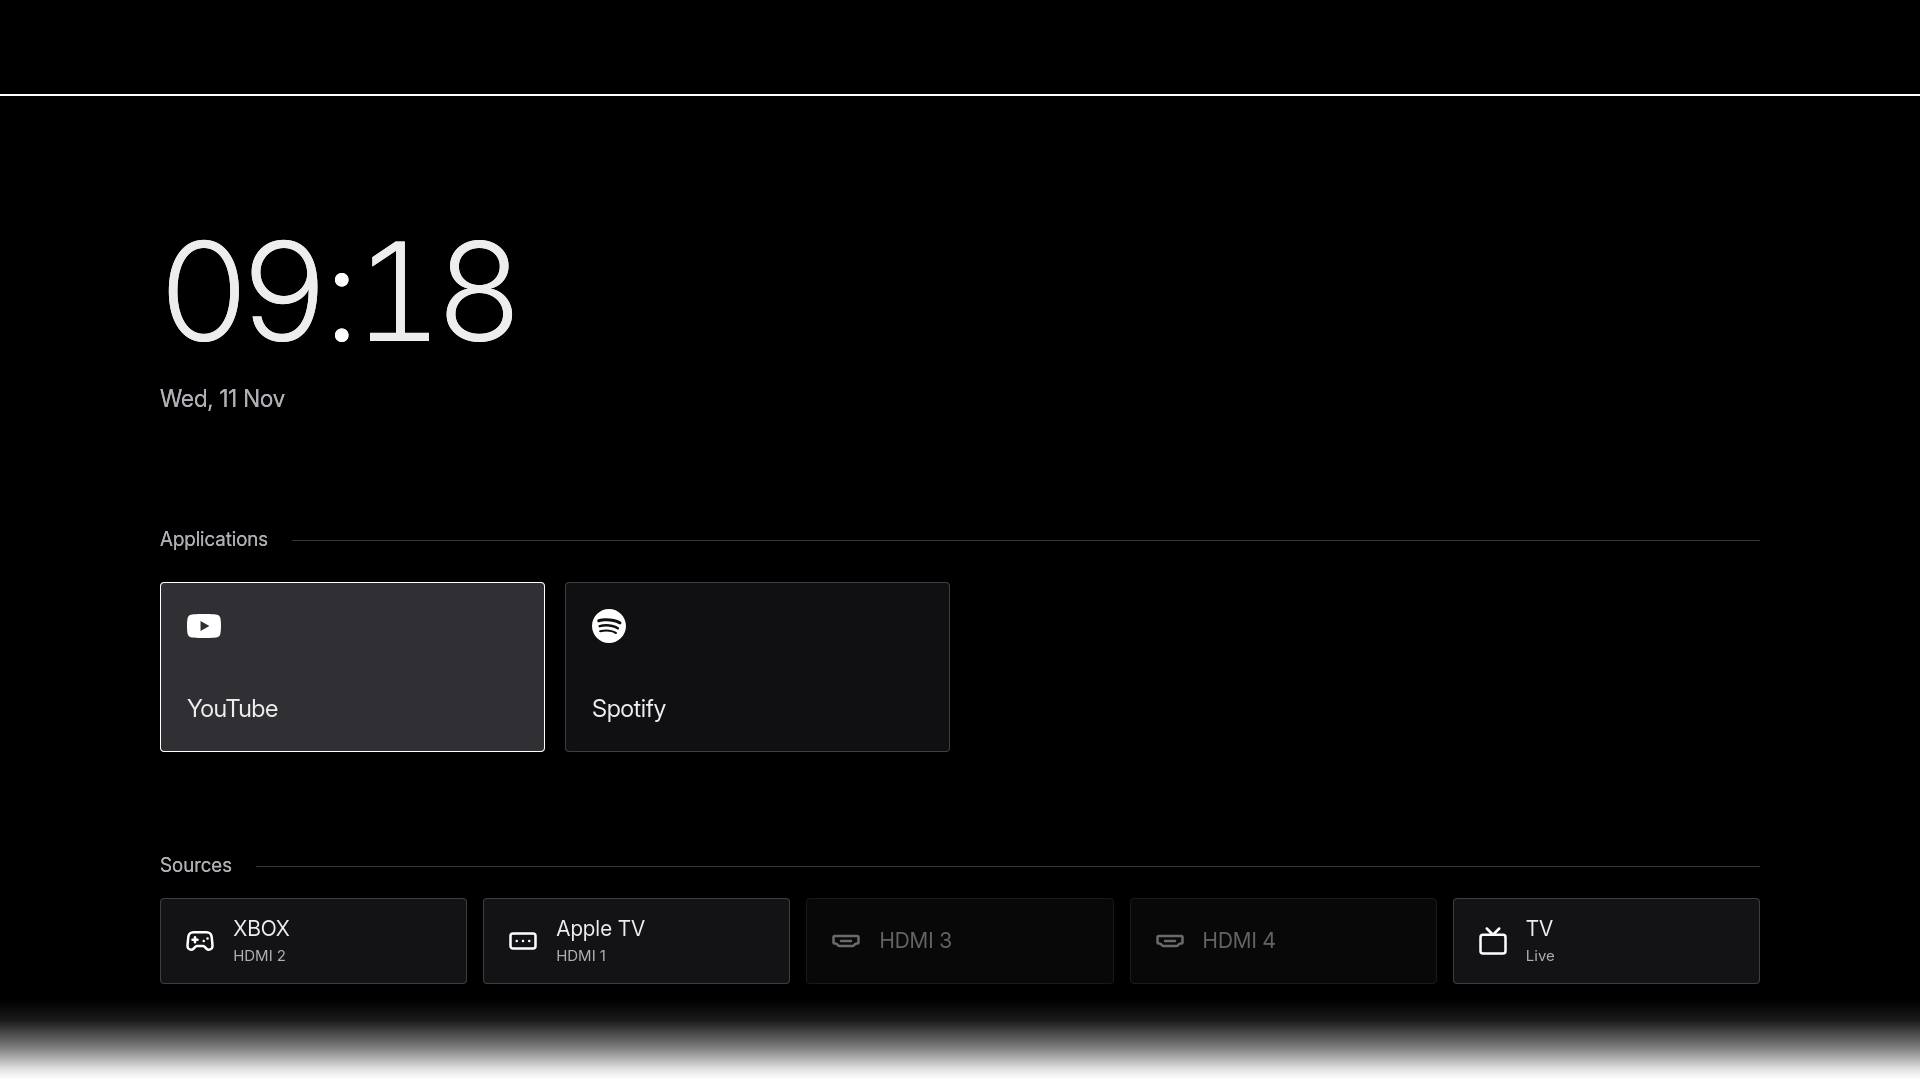
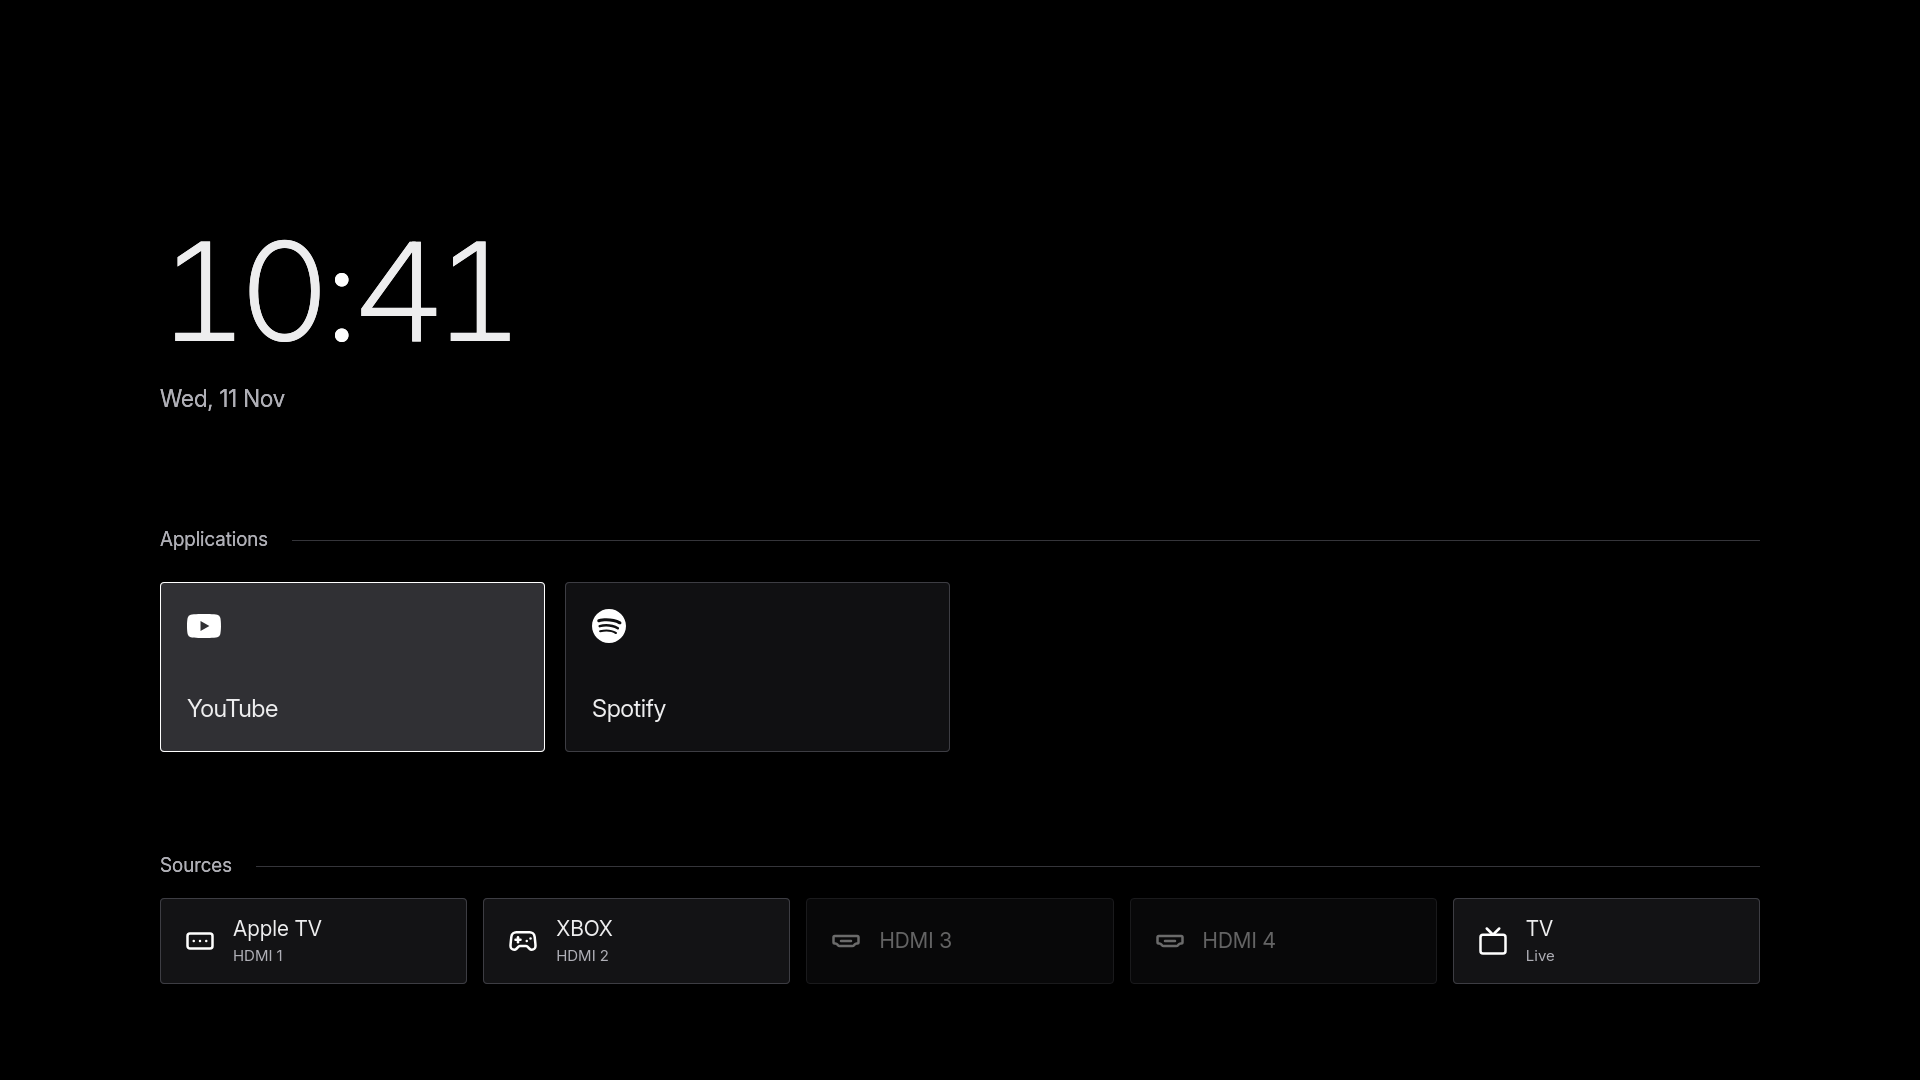
fix: keep HDMI ports in numeric order and refresh the TV screenshot

diff --git a/launcher/src/platform/tizen/createInputsPlatform.ts b/launcher/src/platform/tizen/createInputsPlatform.ts
@@ -151,10 +151,7 @@ export const createInputsPlatform = (host: InputsHost): InputsPlatform => {
                 [...sources.values()]
                   .map(({ source }) => source)
                   .sort(
-                    (a, b) =>
-                      Number(a.type === "TV") - Number(b.type === "TV") ||
-                      Number(b.connected) - Number(a.connected) ||
-                      (a.number || 0) - (b.number || 0),
+                    (a, b) => Number(a.type === "TV") - Number(b.type === "TV") || (a.number || 0) - (b.number || 0),
                   ),
               );
             },
